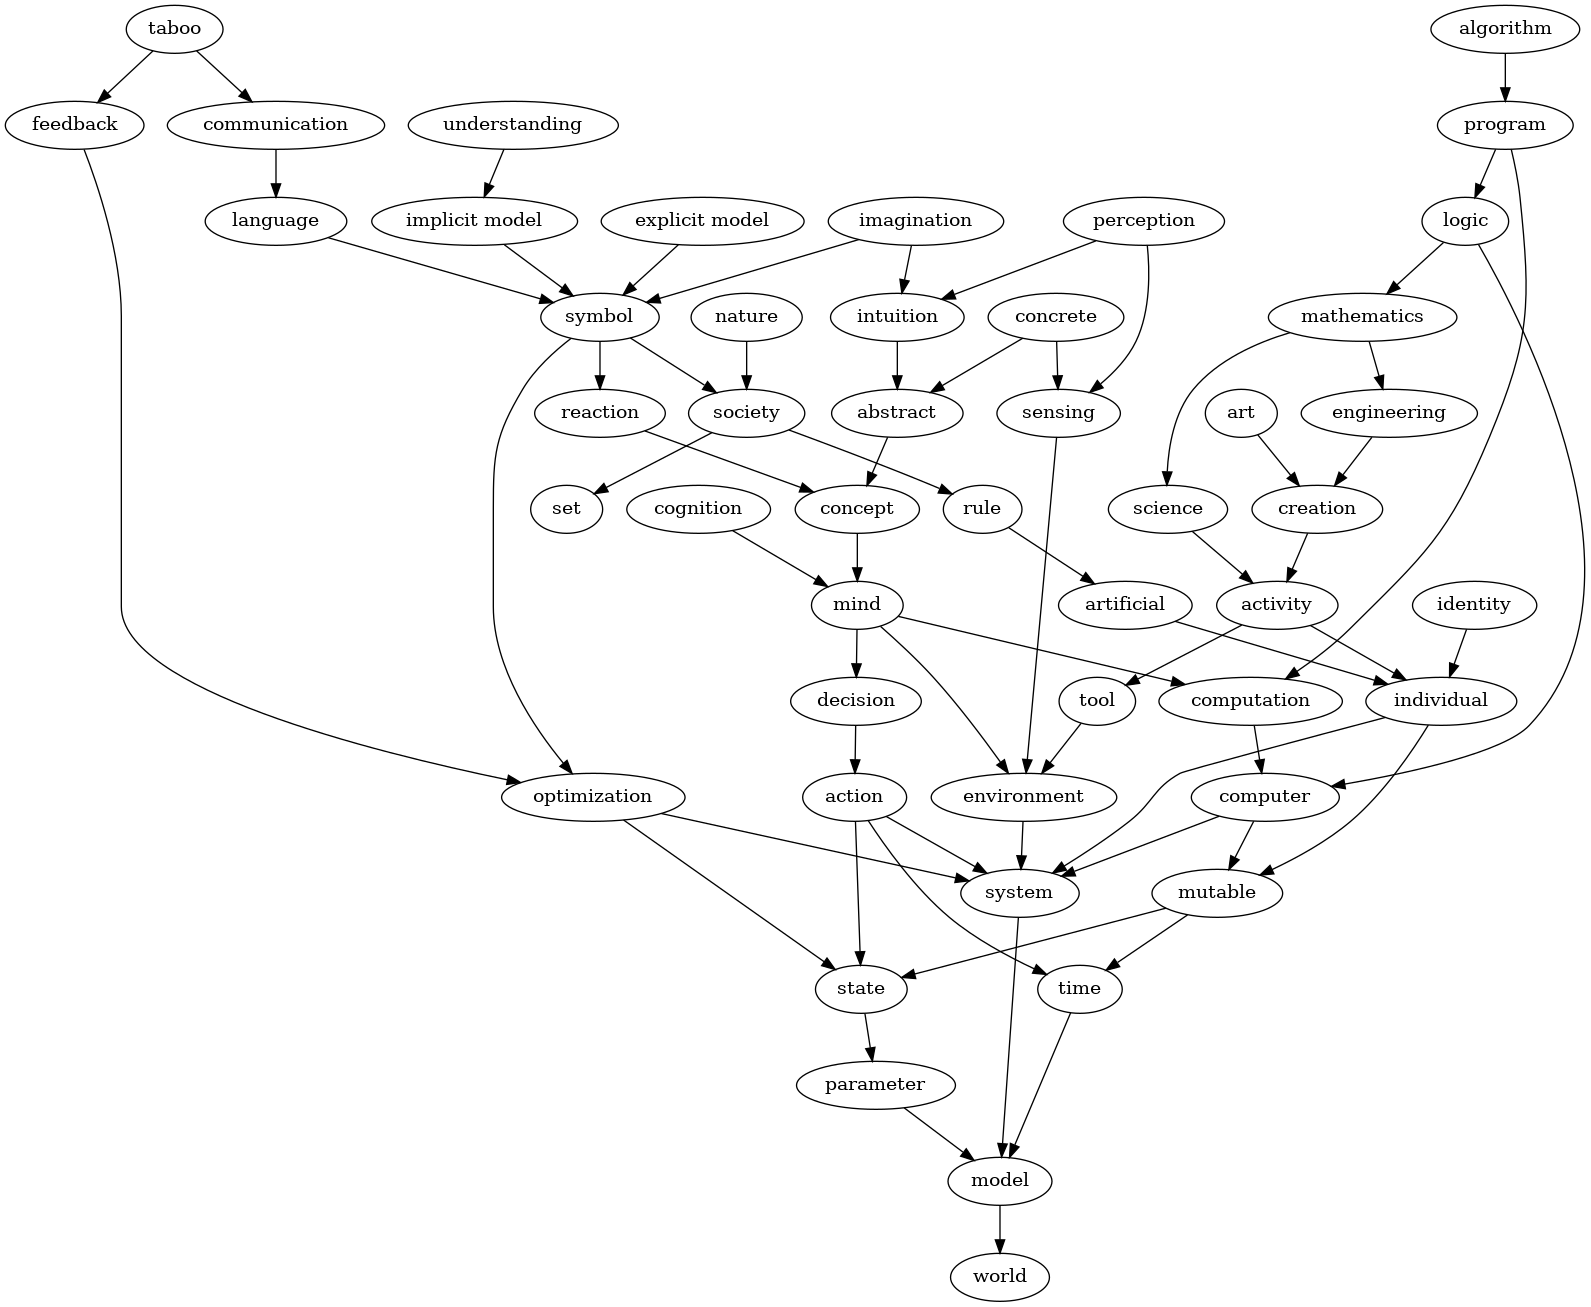
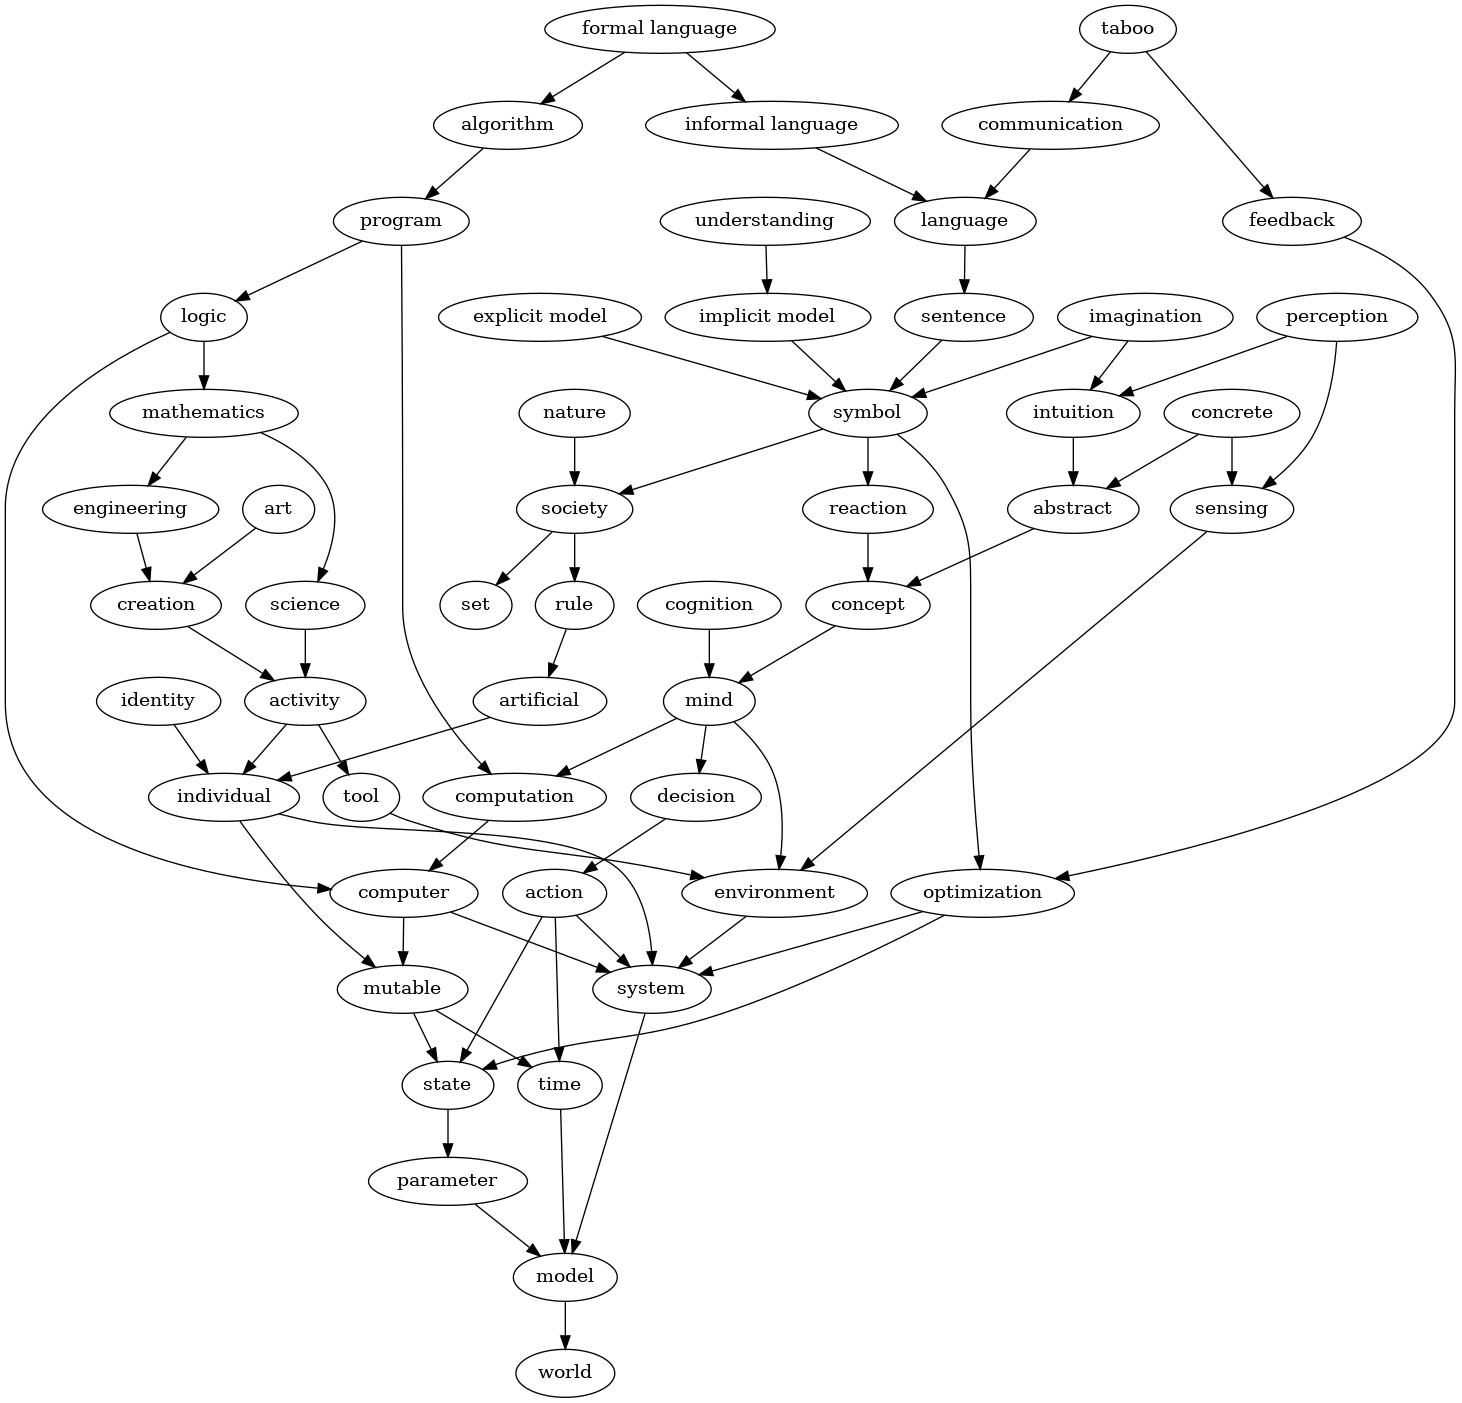
Add definitions

diff --git a/docs/2020-09-12-dictionary/index.html b/docs/2020-09-12-dictionary/index.html
@@ -93,7 +93,10 @@
 <p><span id="vanity-6f7074696d697a6174696f6e"></span><strong>optimization</strong>: <span class="vanity-contents">An activity consisting in modifying a <a href="#vanity-73797374656d" class="vanity-term-link">system</a> so as to increase its fitness, which is a number, specifically an element taken from an ordered set. The goal function, objective function or fitness function is the function that maps a <a href="#vanity-7374617465" class="vanity-term-link">state</a> of a system to the number referred to as fitness.</span></p>
 <p><span id="vanity-666565646261636b"></span><strong>feedback</strong>: <span class="vanity-contents">Input of the <a href="#vanity-6f7074696d697a6174696f6e" class="vanity-term-link">fitness</a> function of a <a href="#vanity-73797374656d" class="vanity-term-link">system</a>.</span></p>
 <p><span id="vanity-73796d626f6c"></span><strong>symbol</strong>: <span class="vanity-contents">A conventional representation of a <a href="#vanity-636f6e63657074" class="vanity-term-link">concept</a>. It is a component of the <a href="#vanity-776f726c64" class="vanity-term-link">world</a> to which some members of a <a href="#vanity-736f6369657479" class="vanity-term-link">society</a> will <a href="#vanity-7265616374696f6e" class="vanity-term-link">react</a> in a similar manner and that does not provide <a href="#vanity-6f7074696d697a6174696f6e" class="vanity-term-link">benefits</a> other than eliciting similar reactions in others.</span></p>
-<p><span id="vanity-6c616e6775616765"></span><strong>language</strong>: <span class="vanity-contents">Combinations of <a href="#vanity-73796d626f6c" class="vanity-term-link">symbols</a> forming ... symbols.</span></p>
+<p><span id="vanity-73656e74656e6365"></span><strong>sentence</strong>: <span class="vanity-contents">A sentence is a compound <a href="#vanity-73796d626f6c" class="vanity-term-link">symbol</a> i.e. a symbol formed by combining multiple symbols into one.</span></p>
+<p><span id="vanity-6c616e6775616765"></span><strong>language</strong>: <span class="vanity-contents">A collection of <a href="#vanity-73796d626f6c" class="vanity-term-link">symbols</a> produced by combining other symbols. A combination of symbols that itself forms a symbol is referred to as a <a href="#vanity-73656e74656e6365" class="vanity-term-link">compound symbol</a> or a <a href="#vanity-73656e74656e6365" class="vanity-term-link">sentence</a>. One shall distinguish formal languages from informal languages.</span></p>
+<p><span id="vanity-696e666f726d616c206c616e6775616765"></span><strong>informal language</strong>: <span class="vanity-contents">An informal language is a <a href="#vanity-6c616e6775616765" class="vanity-term-link">language</a> made of ambiguous <a href="#vanity-73796d626f6c" class="vanity-term-link">symbols</a>. A simple symbol or a <a href="#vanity-73656e74656e6365" class="vanity-term-link">compound symbol</a> is ambiguous if it elicits different <a href="#vanity-7265616374696f6e" class="vanity-term-link">reactions</a> in different people. For example, a simple English sentence like "the sky is blue" is ambiguous at least because different people have different notions of the color blue or whether this claim asserts that the sky is always blue. The missing details are usually called "context" but for an informal language, it is not possible to provide all the context for a <a href="#vanity-73656e74656e6365" class="vanity-term-link">sentence</a> to become unambiguous. What prevents this is how each <a href="#vanity-6d696e64" class="vanity-term-link">mind</a> produces <a href="#vanity-636f6e63657074" class="vanity-term-link">concepts</a> and reacts to them as a function of its own state rather than just as a function of new external data.</span></p>
+<p><span id="vanity-666f726d616c206c616e6775616765"></span><strong>formal language</strong>: <span class="vanity-contents">A formal language is a <a href="#vanity-6c616e6775616765" class="vanity-term-link">language</a> defined mathematically, or equivalently unambiguously. Most programming languages can be thought of as formal languages, even if in practice certain aspects of the language are left undefined. Another example of "almost formal" languages are mathematical proofs. While ordinary mathematical proofs are expressed in a natural language such as English, they are believed to be translatable into one or more equivalent proof-checking <a href="#vanity-616c676f726974686d" class="vanity-term-link">algorithms</a> by different people. Since not everyone understands a given mathematical proof, the key is to convince the audience that they understand the proof only if they really do. As a shortcut, we might therefore allow ourselves to treat most mathematical discourse as using a formal language. This contrasts with everyday <a href="#vanity-696e666f726d616c206c616e6775616765" class="vanity-term-link">informal languages</a>, which are not believed nor designed to be unambiguous.</span></p>
 <p><span id="vanity-696d6167696e6174696f6e"></span><strong>imagination</strong>: <span class="vanity-contents">A form of <a href="#vanity-696e74756974696f6e" class="vanity-term-link">intuition</a>, generally involving <a href="#vanity-636f6e63657074" class="vanity-term-link">concepts</a> for which <a href="#vanity-73796d626f6c" class="vanity-term-link">symbols</a> already exist.</span></p>
 <p><span id="vanity-696d706c69636974206d6f64656c"></span><strong>implicit model</strong>: <span class="vanity-contents">A <a href="#vanity-6d6f64656c" class="vanity-term-link">model</a> implemented by a <a href="#vanity-6d696e64" class="vanity-term-link">mind</a>. A mind makes <a href="#vanity-6465636973696f6e" class="vanity-term-link">decisions</a> at least partially by relying on some internal structure in the <a href="#vanity-73797374656d" class="vanity-term-link">system</a>, without relying on a <a href="#vanity-73796d626f6c" class="vanity-term-link">symbolism</a> or language that makes it transferable to other <a href="#vanity-696e646976696475616c" class="vanity-term-link">individuals</a>. This internal structure is considered an implicit world model.</span></p>
 <p><span id="vanity-6578706c69636974206d6f64656c"></span><strong>explicit model</strong>: <span class="vanity-contents">A <a href="#vanity-6d6f64656c" class="vanity-term-link">model</a> transferable by a <a href="#vanity-73797374656d" class="vanity-term-link">system</a> to another system using <a href="#vanity-73796d626f6c" class="vanity-term-link">symbols</a> forming a language.</span></p>

diff --git a/src/2020-09-12-dictionary/index.md b/src/2020-09-12-dictionary/index.md
@@ -369,8 +369,56 @@ and that does not provide
 [benefits](#vanity-6f7074696d697a6174696f6e){.vanity-term-link} other
 than eliciting similar reactions in others. ]{.vanity-contents}
 
-[]{#vanity-6c616e6775616765}**language**: [Combinations of
-[symbols](#vanity-73796d626f6c){.vanity-term-link} forming \... symbols.
+[]{#vanity-73656e74656e6365}**sentence**: [A sentence is a compound
+[symbol](#vanity-73796d626f6c){.vanity-term-link} i.e. a symbol formed
+by combining multiple symbols into one. ]{.vanity-contents}
+
+[]{#vanity-6c616e6775616765}**language**: [A collection of
+[symbols](#vanity-73796d626f6c){.vanity-term-link} produced by combining
+other symbols. A combination of symbols that itself forms a symbol is
+referred to as a [compound
+symbol](#vanity-73656e74656e6365){.vanity-term-link} or a
+[sentence](#vanity-73656e74656e6365){.vanity-term-link}. One shall
+distinguish formal languages from informal languages.
+]{.vanity-contents}
+
+[]{#vanity-696e666f726d616c206c616e6775616765}**informal language**: [An
+informal language is a
+[language](#vanity-6c616e6775616765){.vanity-term-link} made of
+ambiguous [symbols](#vanity-73796d626f6c){.vanity-term-link}. A simple
+symbol or a [compound
+symbol](#vanity-73656e74656e6365){.vanity-term-link} is ambiguous if it
+elicits different
+[reactions](#vanity-7265616374696f6e){.vanity-term-link} in different
+people. For example, a simple English sentence like \"the sky is blue\"
+is ambiguous at least because different people have different notions of
+the color blue or whether this claim asserts that the sky is always
+blue. The missing details are usually called \"context\" but for an
+informal language, it is not possible to provide all the context for a
+[sentence](#vanity-73656e74656e6365){.vanity-term-link} to become
+unambiguous. What prevents this is how each
+[mind](#vanity-6d696e64){.vanity-term-link} produces
+[concepts](#vanity-636f6e63657074){.vanity-term-link} and reacts to them
+as a function of its own state rather than just as a function of new
+external data. ]{.vanity-contents}
+
+[]{#vanity-666f726d616c206c616e6775616765}**formal language**: [A formal
+language is a [language](#vanity-6c616e6775616765){.vanity-term-link}
+defined mathematically, or equivalently unambiguously. Most programming
+languages can be thought of as formal languages, even if in practice
+certain aspects of the language are left undefined. Another example of
+\"almost formal\" languages are mathematical proofs. While ordinary
+mathematical proofs are expressed in a natural language such as English,
+they are believed to be translatable into one or more equivalent
+proof-checking
+[algorithms](#vanity-616c676f726974686d){.vanity-term-link} by different
+people. Since not everyone understands a given mathematical proof, the
+key is to convince the audience that they understand the proof only if
+they really do. As a shortcut, we might therefore allow ourselves to
+treat most mathematical discourse as using a formal language. This
+contrasts with everyday [informal
+languages](#vanity-696e666f726d616c206c616e6775616765){.vanity-term-link},
+which are not believed nor designed to be unambiguous.
 ]{.vanity-contents}
 
 []{#vanity-696d6167696e6174696f6e}**imagination**: [A form of
